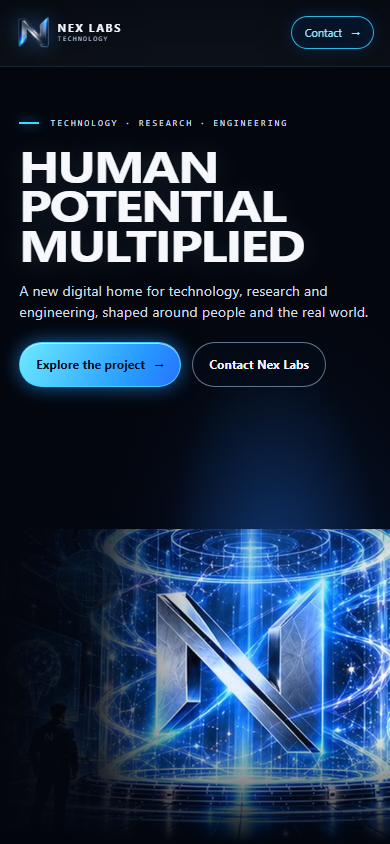
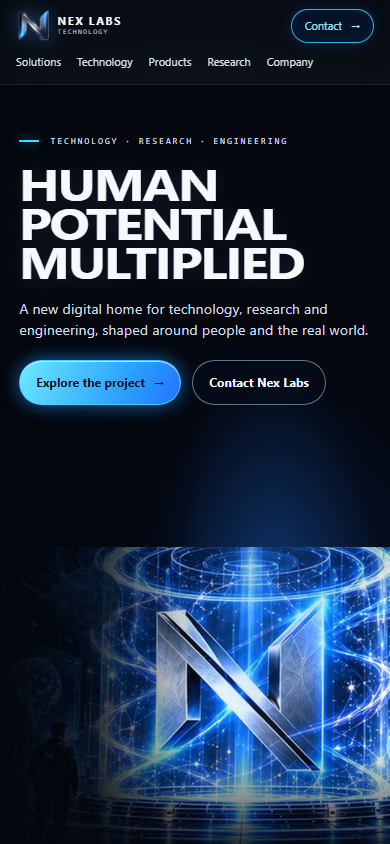
fix: address WO-007 review findings

diff --git a/tests/e2e/home.spec.ts b/tests/e2e/home.spec.ts
@@ -20,7 +20,7 @@ function collectScriptGzipSizes(page: Page) {
     }
     pending.set(
       response.url(),
-      response.body().then((body) => gzipSync(body).byteLength).catch(() => 0),
+      response.body().then((body) => gzipSync(body).byteLength),
     );
   };
   page.on("response", onResponse);
@@ -195,6 +195,43 @@ test("skip link and keyboard focus are visible and usable", async ({ page }) => 
   await page.keyboard.press("Enter");
   await expect(page.locator("#main")).toBeFocused();
   await expect(page.getByRole("link", { name: /explore the project/i })).toBeVisible();
+});
+
+test("mobile navigation keeps every section link reachable by keyboard", async ({ page }) => {
+  await page.setViewportSize({ width: 320, height: 844 });
+  await page.goto("/");
+
+  const navigation = page.getByRole("navigation", { name: "Main navigation" });
+  const links = navigation.getByRole("link");
+  const expectedDestinations = [
+    "#capabilities",
+    "#infrastructure",
+    "#products",
+    "#research",
+    "#vision",
+  ];
+
+  await expect(navigation).toBeVisible();
+  await expect(links).toHaveCount(expectedDestinations.length);
+  for (const [index, destination] of expectedDestinations.entries()) {
+    await expect(links.nth(index)).toHaveAttribute("href", destination);
+  }
+
+  await page.keyboard.press("Tab");
+  await expect(page.getByRole("link", { name: "Skip to content" })).toBeFocused();
+  await page.keyboard.press("Tab");
+  await expect(page.getByRole("link", { name: "Nex Labs Technology — home" })).toBeFocused();
+
+  for (const link of await links.all()) {
+    await page.keyboard.press("Tab");
+    await expect(link).toBeFocused();
+    await expect(link).toBeInViewport();
+  }
+
+  const hasHorizontalOverflow = await page.evaluate(
+    () => document.documentElement.scrollWidth > document.documentElement.clientWidth,
+  );
+  expect(hasHorizontalOverflow).toBe(false);
 });
 
 test("lazy scene reaches ready on capable WebGL and retains the poster otherwise", async ({

diff --git a/src/components/hero-scene.tsx b/src/components/hero-scene.tsx
@@ -61,7 +61,7 @@ function SceneLifecycle({ onFailure }: Pick<HeroSceneProps, "onFailure">) {
  * geometry so flat and spatial brand forms stay structurally aligned.
  */
 function useHeroGeometry() {
-  return useMemo(() => {
+  const geometry = useMemo(() => {
     const svg = `<svg xmlns="http://www.w3.org/2000/svg" viewBox="0 0 335 335"><path d="${precisionBladesGeometry.silhouette}" transform="${precisionBladesTransform}" /></svg>`;
     const paths = new SVGLoader().parse(svg).paths;
     const shapes = paths.flatMap((path) => path.toShapes());
@@ -80,6 +80,9 @@ function useHeroGeometry() {
     geometry.computeVertexNormals();
     return geometry;
   }, []);
+
+  useEffect(() => () => geometry.dispose(), [geometry]);
+  return geometry;
 }
 
 /** Renders the selected Precision Blades N with tier-scaled living motion. */
@@ -100,6 +103,7 @@ function PrecisionBladesN({ tier }: { tier: HeroSceneProps["tier"] }) {
       }),
     [],
   );
+  useEffect(() => () => material.dispose(), [material]);
 
   useFrame(({ clock }, delta) => {
     if (!mark.current) return;
@@ -216,6 +220,7 @@ function EnergyFilament({
     ]);
   }, [index]);
   const geometry = useMemo(() => new TubeGeometry(curve, 96, 0.011, 5, false), [curve]);
+  useEffect(() => () => geometry.dispose(), [geometry]);
   const speed = livingOrganismMotion.energyFlowPerSecond * (1 + index * 0.11);
 
   useFrame(({ clock }) => {
@@ -316,6 +321,7 @@ function SceneParticles({ tier }: { tier: HeroSceneProps["tier"] }) {
     buffer.setAttribute("position", new Float32BufferAttribute(values, 3));
     return buffer;
   }, [tier]);
+  useEffect(() => () => geometry.dispose(), [geometry]);
   const field = useRef<Group>(null);
   const motionScale = getMotionScale(tier);
 

diff --git a/src/components/site-header.module.css b/src/components/site-header.module.css
@@ -138,9 +138,11 @@
 
 @media (max-width: 48rem) {
   .inner {
-    min-height: 4.1rem;
-    gap: 0.55rem;
-    padding-inline: 1rem;
+    display: grid;
+    grid-template-columns: minmax(0, 1fr) auto;
+    min-height: 0;
+    gap: 0.35rem 1rem;
+    padding: 0.55rem 1rem 0.35rem;
   }
 
   .markFrame {
@@ -163,10 +165,29 @@
   }
 
   .navigation {
-    display: none;
+    grid-column: 1 / -1;
+    grid-row: 2;
+    width: 100%;
+    min-width: 0;
+    justify-content: flex-start;
+    gap: 1rem;
+    margin-left: 0;
+    overflow-x: auto;
+    overscroll-behavior-inline: contain;
+    padding-block: 0.25rem 0.4rem;
+    scrollbar-color: rgb(85 165 255 / 45%) transparent;
+    scrollbar-width: thin;
+  }
+
+  .link {
+    flex: 0 0 auto;
+    white-space: nowrap;
   }
 
   .contactAction {
+    grid-column: 2;
+    grid-row: 1;
+    justify-self: end;
     min-height: 2rem;
     padding-inline: 0.8rem;
     font-size: 0.68rem;

diff --git a/.engineering/evidence/NEXLABS-WO-007-HOME-HERO-LIVING-ORGANISM-EVIDENCE.md b/.engineering/evidence/NEXLABS-WO-007-HOME-HERO-LIVING-ORGANISM-EVIDENCE.md
@@ -1,6 +1,6 @@
 # Evidence Bundle — NEXLABS-WO-007-HOME-HERO-LIVING-ORGANISM
 
-**Executor state:** implementation complete; security and deterministic-browser remediation applied by independent review and awaiting exact-head GitHub proof. **Review state:** BLOCKED until the new exact head has zero HIGH/CRITICAL audit findings and all required checks pass. **Merge state:** not merged.
+**Executor state:** implementation and latest review corrections are locally validated on top of PR head `8b35242`; the final correction head is pending commit/push and exact-head GitHub proof. The PR remains open and unmerged.
 
 ## Candidate identity and authority
 
@@ -11,7 +11,7 @@
 - Branch tip before this implementation: `df7f2aed6aed503b0a5f771d23819174725d0ba4`.
 - Implementation and full application-check candidate: `6fc2efa67a7e96c30aa220f052d755be0fb7c23f` (parent `df7f2aed6aed503b0a5f771d23819174725d0ba4`).
 - Two valid CodeRabbit review findings on the next candidate were corrected: runtime WebGL failure now remains in poster fallback across resize, and particle-field oscillation uses fixed elapsed-time amplitude scaled by tier. Post-correction local checks and E2E evidence are included below.
-- The final pushed PR HEAD and exact-head GitHub check results are recorded in the PR description. The native hardware sample below is retained from implementation SHA `6fc2efa`; post-correction performance was rerun with the Playwright lab profiles.
+- Latest remote PR HEAD at the start of this correction was `8b35242c7a285a3ae64118dd143e31f0b389a4ec`; the correction patch fixes the new review findings and is validated locally. The final pushed HEAD and its exact-head GitHub checks are recorded in the PR description. The native hardware sample below is retained from implementation SHA `6fc2efa`; current post-correction performance was rerun with the Playwright lab profiles.
[1 lines of base64/hex data omitted]
 
 ## Runtime and dependencies
@@ -19,7 +19,7 @@
 - Node.js `v24.19.0` (satisfies `>=22`); npm `11.17.0`; Git `2.55.0`; GitHub CLI `2.101.0`, authenticated as `KayzenRoot`.
 - `@gef-bootstrap/cli@1.1.2` remains exactly pinned; `npx gef --version` reports `1.1.2`.
 - Added exact dependency pins: `@react-three/fiber@9.8.1`, `three@0.186.1`, `@types/three@0.186.0`. No `@react-three/drei`, GSAP, GLB asset, or WebGPU dependency was added.
-- A newly surfaced HIGH advisory against `braces@3.0.3` affected the dev-only chain `@next/eslint-plugin-next -> fast-glob -> micromatch -> braces`. The current published `braces@3.0.3` line has no patched release for that advisory. The remediation candidate removes `@next/eslint-plugin-next` and its now-unreachable transitive chain instead of downgrading, overriding or suppressing the advisory. TypeScript ESLint, typecheck, Next production build, unit tests, browser/a11y checks and Sonar remain enforced. `CI Quality` now runs `npm audit --audit-level=moderate` so exact-head audit status is a required merge gate.
+- A HIGH advisory against `braces@3.0.3` affected the dev-only chain `@next/eslint-plugin-next -> fast-glob -> micromatch -> braces`. The remediation removed `@next/eslint-plugin-next` and its unreachable transitive chain rather than downgrading, overriding or suppressing the finding. A fresh `npm ci` installed 243 packages, audited 254, and reported zero vulnerabilities; `npm audit --audit-level=moderate` also passed. TypeScript ESLint, typecheck, Next production build, unit tests, browser/a11y checks and Sonar remain enforced. `CI Quality` now runs the audit on every exact head. Next-specific ESLint rules are temporarily absent while the upstream chain has no patched release.
 
 ## Implementation and changed files
 
@@ -42,7 +42,7 @@ The implementation commit changed 37 files (2,450 insertions, 342 deletions):
 | `npm run typecheck` | PASS |
 | `npm run test` | PASS — 3 files, 15 tests |
 | `npm run build` | PASS — Next.js production build and static Home route |
-| `E2E_PORT=3101 npm run test:e2e` | PASS — 10/10 Playwright scenarios after the review fixes, including runtime WebGL failure that stays in poster fallback after resize, axe, STATIC/reduced motion, tiers, responsiveness and lab performance assertions |
+| `E2E_PORT=3101 npm run test:e2e` | PASS — 11/11 Playwright scenarios, including keyboard access to all five mobile navigation destinations at 320 px, runtime WebGL failure after resize, axe, STATIC/reduced motion, tiers, responsiveness and lab performance assertions |
 | `npm audit --audit-level=moderate` | PASS — 0 vulnerabilities |
 | `git diff --check` | PASS on implementation changes |
 | Secret-pattern scan of changed source/package/evidence paths | No credential-pattern matches |
@@ -50,16 +50,16 @@ The implementation commit changed 37 files (2,450 insertions, 342 deletions):
 
 GEF baseline probes were also run. `npx gef doctor` returned terminal `SUCCEEDED`; Node, platform, Git, and repository-observable findings were `HEALTHY`. The dependency provenance finding was `unverified` / `REVIEW`, and the GEF GitHub capability probe reported `writePermission: false` / `REVIEW`, despite `gh` being authenticated as `KayzenRoot`. The `npx gef status` run after the documentation closeout reported repository `CLEAN`, operator metadata `stale: true`, and drift `UNEXPECTED` against the recorded init baseline; while the post-review patch is pending commit, the worktree is naturally `DIRTY`. No GEF baseline or gate was rewritten. Exact final Git and PR status are recorded in the PR description.
 
-The E2E server used port 3101 because another local service already occupies port 3100; the existing service was left untouched. The E2E interaction metric is a single laboratory CTA Event Timing proxy, not field INP.
+The E2E server used port 3101 because another local service already occupies port 3100; the existing service was left untouched. The E2E interaction metric is a single laboratory CTA Event Timing proxy, not field INP. Latest review fixes also keep mobile section navigation horizontally scrollable and keyboard reachable, propagate failed chunk-body reads instead of reporting a false zero-byte measurement, and dispose the memoized ExtrudeGeometry, MeshPhysicalMaterial, TubeGeometry and particle BufferGeometry on unmount.
 
 ### Visual and performance evidence
 
 - `home-reference-side-by-side.png` records the 1600×900 comparison with the hash-matching reference. `home-desktop-1600x900.png`, `home-desktop-1440x900.png`, `home-mobile-390x844.png`, `home-full-scene-1600x900.png`, `home-balanced-scene-900x768.png`, `home-reduced-motion-desktop-1440x900.png`, and `home-webgl-fallback-1600x900.png` retain viewport, tier, motion, and fallback evidence.
-- Static poster path after review corrections: LCP 256 ms, CLS 0, initial route JavaScript 136,829 bytes gzip. Poster files are 227,644 bytes desktop and 137,561 bytes mobile.
-- Playwright desktop 1600×900 after review corrections: BALANCED ready; LCP 232 ms, CLS 0; lazy 3D chunk 252,938 bytes gzip (below 700 KB target). Headless renderer was SwiftShader, sampling 119 frames at 20 FPS median / 50 ms median frame / 66.7 ms p95.
-- FULL capability override exercised the FULL code path under SwiftShader: 119 samples, 10 FPS median / 100 ms median frame / 183.3 ms p95. This is a software-renderer test, not high-end hardware qualification.
+- Static poster path after the latest UI/runtime corrections: LCP 224 ms, CLS 0, initial route JavaScript 136,828 bytes gzip. Poster files are 227,644 bytes desktop and 137,561 bytes mobile.
+- Playwright desktop 1600×900: BALANCED ready; LCP 392 ms, CLS 0; lazy 3D chunk 252,982 bytes gzip (below 700 KB target). Headless renderer was SwiftShader, sampling 119 frames at 20 FPS median / 50.1 ms median frame / 66.8 ms p95.
+- FULL capability override exercised the FULL code path under SwiftShader: 119 samples, 8.6 FPS median / 116.6 ms median frame / 216.6 ms p95. This is a software-renderer test, not high-end hardware qualification.
 - BALANCED constrained 900×768 profile: 119 samples, 30 FPS median / 33.3 ms median frame / 33.4 ms p95.
-- Mobile emulation 390×844, cellular 4G (150 ms latency), 4× CPU throttle: STATIC; LCP 2,384 ms, CLS 0; one CTA interaction with 3 Event Timing samples, maximum 88 ms. These are laboratory samples, not field percentile measurements.
+- Mobile emulation 390×844, cellular 4G (150 ms latency), 4× CPU throttle: STATIC; LCP 2,360 ms, CLS 0; one CTA interaction with 3 Event Timing samples, maximum 80 ms. These are laboratory samples, not field percentile measurements.
 - Native Chrome on the active Docker page, no CPU throttle or capability override, NVIDIA GeForce RTX 5050 / Direct3D11: BALANCED ready at 1920×855; 119 frame samples, 75.2 FPS median, 13.3 ms median and 13.5 ms p95, captured 2026-10-03 00:24:07 UTC on implementation SHA `6fc2efa`. This is a pre-correction capable-desktop reference sample, not a fresh post-correction measurement. The current post-correction result is the headless SwiftShader profile above.
 
 ## Docker continuity
@@ -76,7 +76,7 @@ The E2E server used port 3101 because another local service already occupies por
 - FULL frame timing in headless software rendering is slow; the active NVIDIA hardware measurement is BALANCED, matching detected host capabilities. FULL hardware performance remains unmeasured on a machine that selects FULL naturally.
 - Mobile LCP and interaction figures are laboratory samples only; field LCP/INP percentiles are not available in this local run.
 - Remaining M05 content below the hero is intentionally not implemented in WO-007. No final research/infrastructure sections or card content were added.
-- The prior pushed candidate had Browser Smoke red because the runtime-WebGL-failure test assumed CI hardware/WebGL capability. The remediation makes that test deterministic by stubbing only the capability probe while still forcing the connected runtime canvas to fail. Exact-head checks must prove the correction. The PR must remain OPEN and unmerged.
+- CodeRabbit's latest comments on `8b35242` identified mobile navigation being hidden, failed script-response measurement being masked as zero bytes, and manually created R3F resources needing disposal. All three areas are corrected and local lint/type/unit/build/E2E checks pass; exact-head GitHub checks and a fresh CodeRabbit result remain to be confirmed after push. The PR must remain OPEN and unmerged.
 - The proposed Checkpoint Delta remains `PROPOSED`; independent exact-head review/approval and merge are outside this execution stop condition.
 - CodeRabbit identified two defects on the earlier PR candidate. Both were confirmed and fixed; exact post-correction GitHub checks/review must be inspected at the final pushed HEAD.
 

diff --git a/.engineering/checkpoint-deltas/NEXLABS-WO-007-HOME-HERO-LIVING-ORGANISM-PROPOSED.md b/.engineering/checkpoint-deltas/NEXLABS-WO-007-HOME-HERO-LIVING-ORGANISM-PROPOSED.md
@@ -13,13 +13,13 @@ State: PROPOSED — DO NOT PROMOTE BEFORE APPROVAL
 
 ## Evidence required
 
-- Base: `c6b4e69e214ed51f9c2ad338e73ee6f3dc89a65c`; implementation/test SHA: `6fc2efa67a7e96c30aa220f052d755be0fb7c23f`.
+- Base: `c6b4e69e214ed51f9c2ad338e73ee6f3dc89a65c`; implementation SHA: `6fc2efa67a7e96c30aa220f052d755be0fb7c23f`; latest remote PR head before these corrections: `8b35242c7a285a3ae64118dd143e31f0b389a4ec`. The final pushed head and exact-head GitHub checks are recorded in the PR description.
[1 lines of base64/hex data omitted]
 - Responsive, side-by-side fidelity, FULL/BALANCED/STATIC, reduced-motion, and WebGL-fallback evidence retained under `.engineering/evidence/NEXLABS-WO-007-HOME-HERO-LIVING-ORGANISM/`.
-- Lint, typecheck, unit tests (3 files / 15 tests), production build, browser/a11y suite (10/10 after review corrections), audit (0 vulnerabilities), and local secret-pattern scan passed on the implementation/correction patch.
-- Lazy 3D JS is 252,938 bytes gzip (target <=700 KB). Static route JS is 136,829 bytes gzip. Native Chrome/NVIDIA RTX 5050 BALANCED profile on implementation SHA `6fc2efa` (before the two review fixes) sampled 75.2 FPS median; synthetic SwiftShader FULL profile sampled 10 FPS median and is not hardware qualification.
+- Latest local verification after the review corrections: `npm ci` (243 added, 254 audited), `npm audit --audit-level=moderate` (0 vulnerabilities), lint, typecheck, unit tests (3 files / 15 tests), production build, `git diff --check`, and browser/a11y/performance suite (11/11) all pass. The added mobile keyboard test reaches all five section links at 320 px.
+- Latest Playwright evidence: lazy 3D JS 252,982 bytes gzip (target <=700 KB); static route JS 136,828 bytes gzip; BALANCED SwiftShader desktop profile 20 FPS median; constrained 900x768 BALANCED profile 30 FPS median; mobile STATIC profile LCP 2,360 ms, CLS 0, maximum CTA interaction sample 80 ms. Native Chrome/NVIDIA RTX 5050 BALANCED profile on implementation SHA `6fc2efa` (before the earlier runtime/motion review fixes) sampled 75.2 FPS median; it is retained as historical capable-desktop evidence, not a fresh current-head qualification.
 - Docker Engine 29.8.1 / Compose v5.5.1; container `nexlabs-website-web-1` is running and healthy at `http://localhost:3000` (HTTP 200). Docker remains UP; no `docker compose down` was run.
-- CodeRabbit's two actionable findings were validated and corrected: preserve runtime failure after resize and use tier-scaled elapsed-time particle oscillation. Exact-final-HEAD CI/check results are required after push; independent reviewer verdict and approval remain required before promotion.
+- CodeRabbit's earlier runtime fallback and tier-scaled motion findings are corrected. The latest review's mobile navigation, failed script-body measurement and manual Three.js resource disposal findings are also corrected. Exact-final-HEAD CI and fresh CodeRabbit results are pending after push; independent reviewer approval and merge remain required before promotion.
 - Full metrics, changed-file summary, Docker details, and limitations: `.engineering/evidence/NEXLABS-WO-007-HOME-HERO-LIVING-ORGANISM-EVIDENCE.md`.
 
 ## Boundary
@@ -28,8 +28,8 @@ Executor may update this proposal with factual evidence but may not self-promote
 
 ## Current execution state
 
-- Initial implementation SHA `6fc2efa67a7e96c30aa220f052d755be0fb7c23f` was locally validated; two verified review corrections and the 10/10 post-correction E2E are recorded in the Evidence Bundle.
-- The final post-correction PR SHA is recorded in the PR description after push; required checks must be inspected at that exact SHA.
+- Initial implementation SHA `6fc2efa67a7e96c30aa220f052d755be0fb7c23f` and the subsequent review corrections are recorded in the Evidence Bundle.
+- Latest remote PR head before the active correction patch is `8b35242c7a285a3ae64118dd143e31f0b389a4ec`; local checks on the correction patch pass, including 11/11 Playwright scenarios. Final push and exact-head checks remain outstanding.
 - PR #9 must remain OPEN and unmerged at the stop condition. This delta remains PROPOSED pending exact-head checks and independent approval.
 
 
